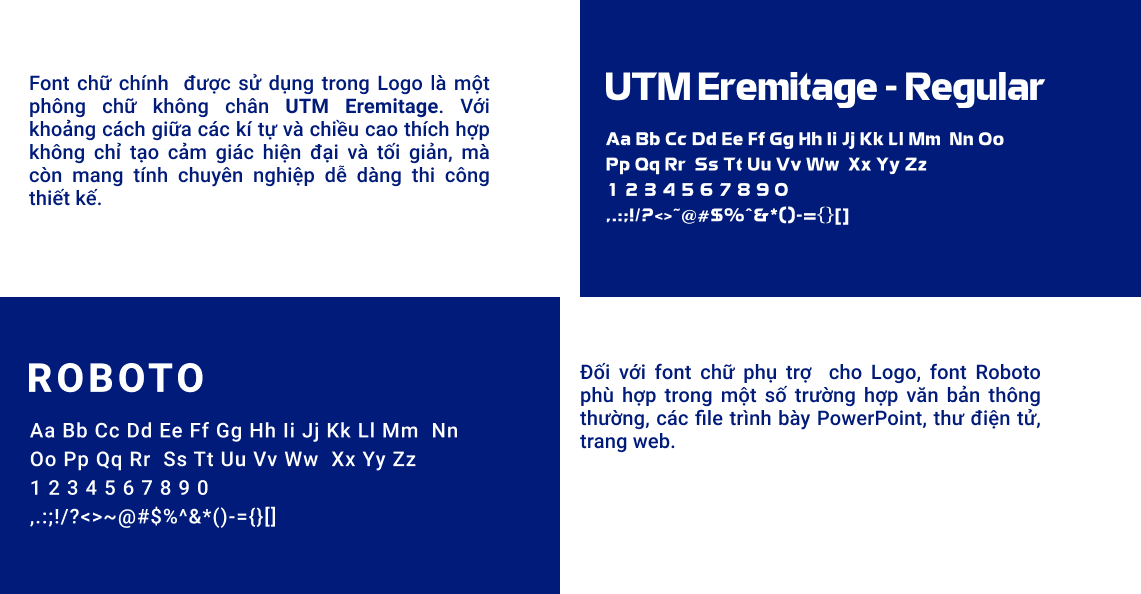
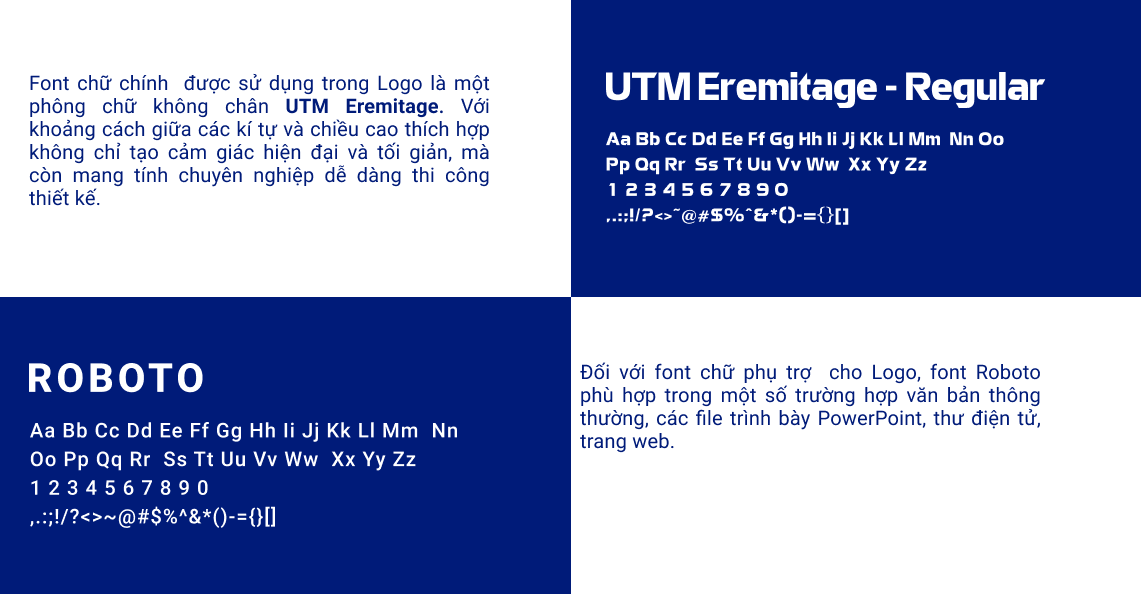
Update 16.5

Changed region(s): [[0.4908, 0.0, 0.9202, 1.0], [0.0307, 0.1212, 0.4294, 0.3636]]

diff --git a/src/App.js b/src/App.js
@@ -179,7 +179,7 @@ function App() {
                       subTitle={<span dangerouslySetInnerHTML={{ __html: "<strong class='purple'>CHUHI</strong> - COFFEE AND TEA" }} />}
                       subDateTime=""
                       intro={<span dangerouslySetInnerHTML={{ __html: "Dự án thiết kế <strong class='font-light'>thương hiệu trà sữa CHUHI</strong>. Logo Chuhi được sáng tạo từ các chữ cái C H U H I. Cái tên được lấy cảm hứng từ tên người chủ Trung Hiếu" }} />}
-                      section={["background"]}
+                      section={["background", "màu sắc thương hiệu", "font chữ thương hiệu", "cup"]}
                       author=""
                     />}
                 />
@@ -189,10 +189,10 @@ function App() {
                       title="BRANDING"
                       imgFilter="Branding"
                       imgFilterSub="hiencafe"
-                      subTitle={<span dangerouslySetInnerHTML={{ __html: "<strong class='purple'>HIEN</strong> - COFFEE AND TEA" }} />}
+                      subTitle={<span dangerouslySetInnerHTML={{ __html: "<strong class='purple'>HIEN</strong> CAFE" }} />}
                       subDateTime=""
                       intro={<span dangerouslySetInnerHTML={{ __html: "Dự án thiết kế <strong class='font-light'>thương hiệu cafe Hiên</strong>. Hiên cafe mang phong cách mộc mạc đơn giản như cái tên Hiên" }} />}
-                      section={["background"]}
+                      section={["background", "màu sắc thương hiệu"]}
                       author=""
                     />}
                 />

diff --git a/src/components/Projects/Projects.js b/src/components/Projects/Projects.js
@@ -21,16 +21,16 @@ import hien from "../../Assets/Projects/Branding/Branding_mainpage_04_C6.png";
 
 function Projects(props) {
 
-  const scrollHandler = () => {
-    var project = document.getElementById('project');
+  // const scrollHandler = () => {
+  //   var project = document.getElementById('project');
 
-    if (props.type !== "home") {
-      project.classList.add('hide');
-    }
+  //   if (props.type !== "home") {
+  //     project.classList.add('hide');
+  //   }
 
-  }
+  // }
 
-  window.addEventListener("scroll", scrollHandler);
+  // window.addEventListener("scroll", scrollHandler);
 
   const [radioValue, setRadioValue] = useState('1');
 

diff --git a/src/components/Home/Home.js b/src/components/Home/Home.js
@@ -90,7 +90,7 @@ const Home = () => {
           </AnimatePresence>
         </Container>
       </Container>
-      <About />
+      {/* <About /> */}
       <Projects type="home" />
       <Contact />
     </section>

diff --git a/src/style.scss b/src/style.scss
@@ -1181,3 +1181,7 @@ button:focus {
     width: 75%;
   }
 }
+
+.row{
+  justify-content: space-around !important;
+}
